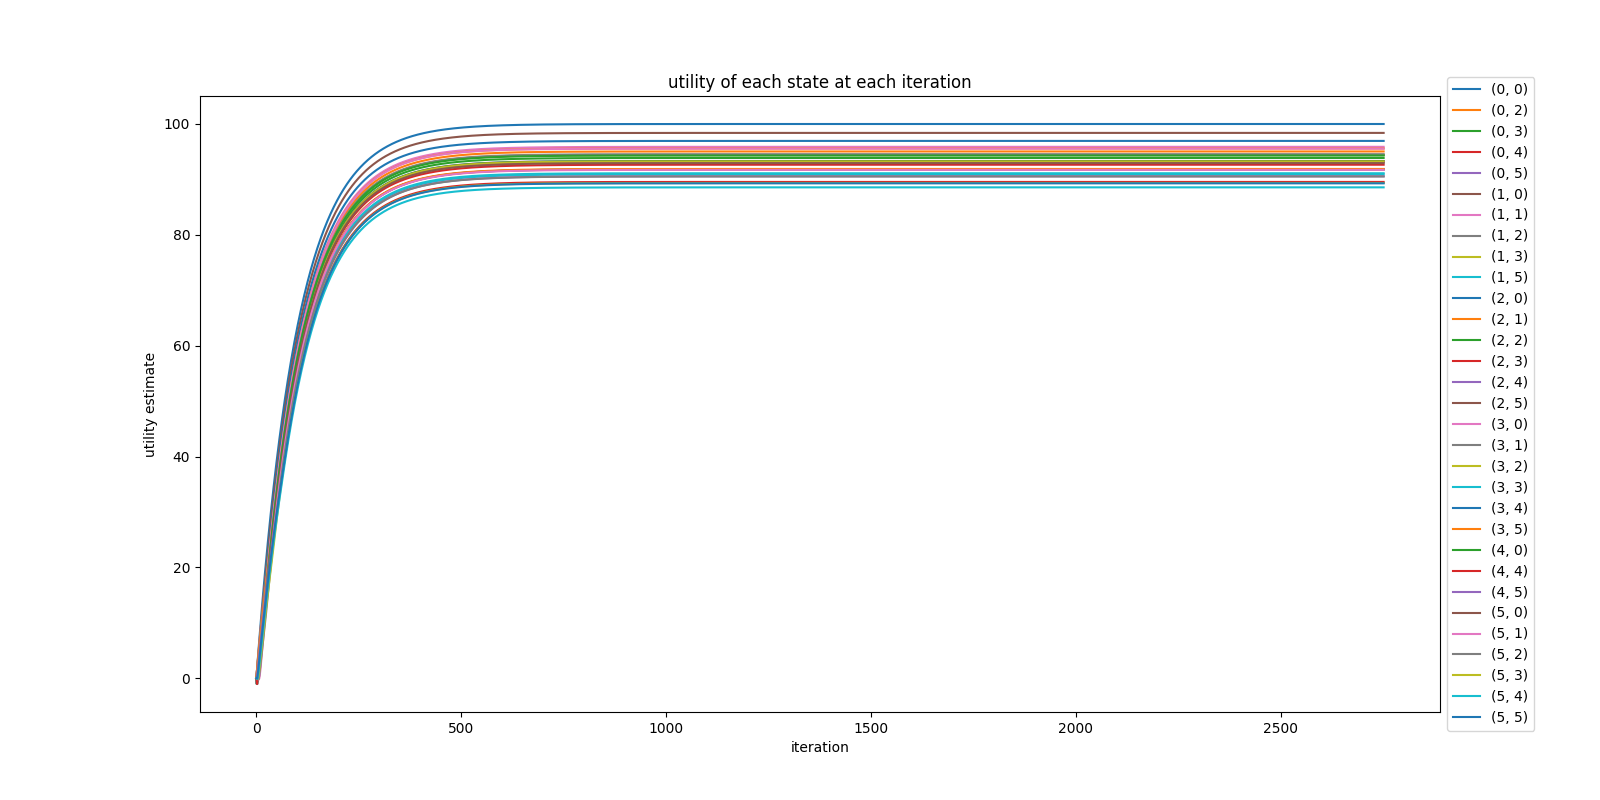
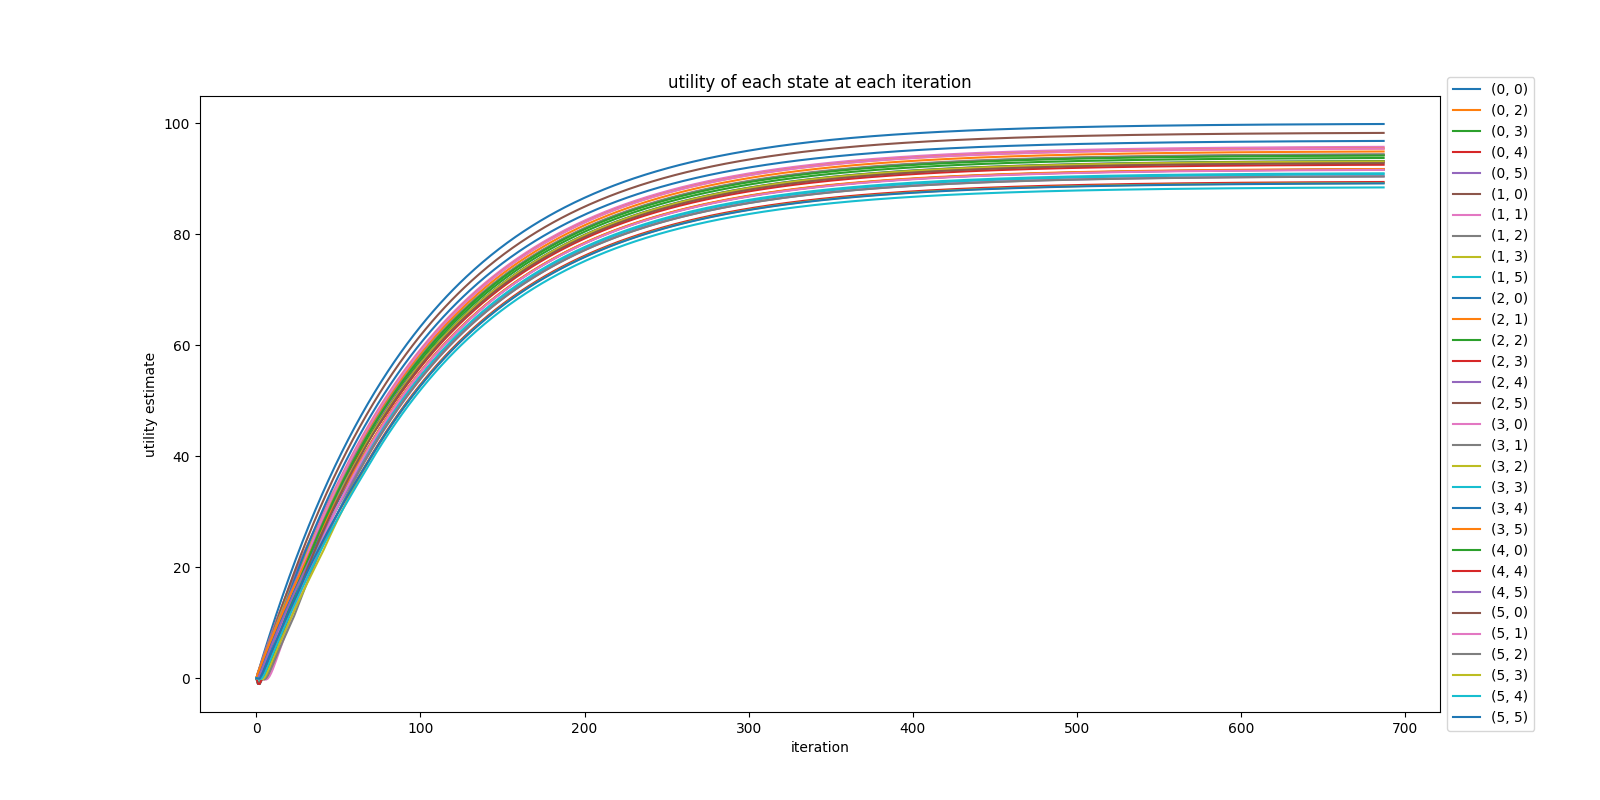
increase default max error of value iteration

diff --git a/assignment_1/algorithms.py b/assignment_1/algorithms.py
@@ -15,7 +15,7 @@ from assignment_1.maze import MazeAction
 # as shown in figure 17.4 of Artificial Intelligence: A Modern Approach
 def value_iteration(
     mdp: MarkovDecisionProcess,
-    max_error=1e-10,
+    max_error=0.1,
     verbose=False,
 ):
     """

diff --git a/assignment_1/maze.py b/assignment_1/maze.py
@@ -8,6 +8,9 @@ from assignment_1.base import MarkovDecisionProcess
 
 
 class MazeAction(enum.Enum):
+    """
+    Actions that can taken in a Maze.
+    """
     MOVE_UP = enum.auto()
     MOVE_DOWN = enum.auto()
     MOVE_LEFT = enum.auto()
